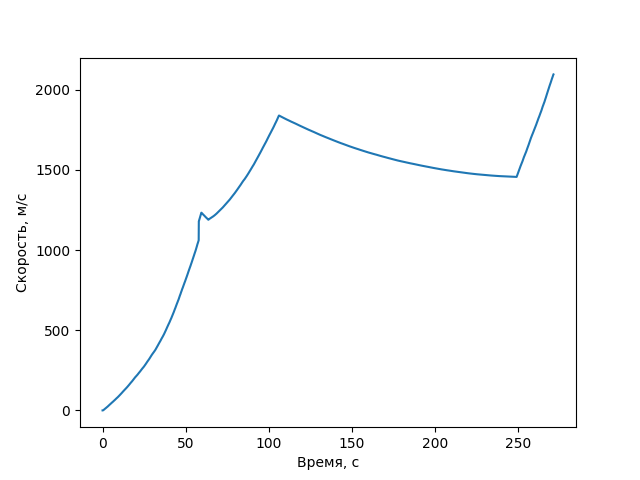
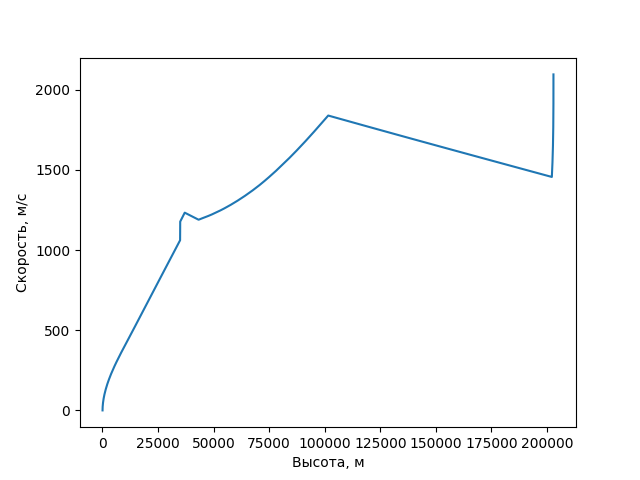
fix graphs 2

diff --git a/Files/Data/CreatingGraphs.py b/Files/Data/CreatingGraphs.py
@@ -40,5 +40,5 @@ with open("Files/Data/KSP_Stats.txt", "r") as f:
 
 #GraphTimeMassa()
 #GraphTimeHeight()
-GraphTimeSpeed()
-#GraphHeightSpeed()
+#GraphTimeSpeed()
+GraphHeightSpeed()
